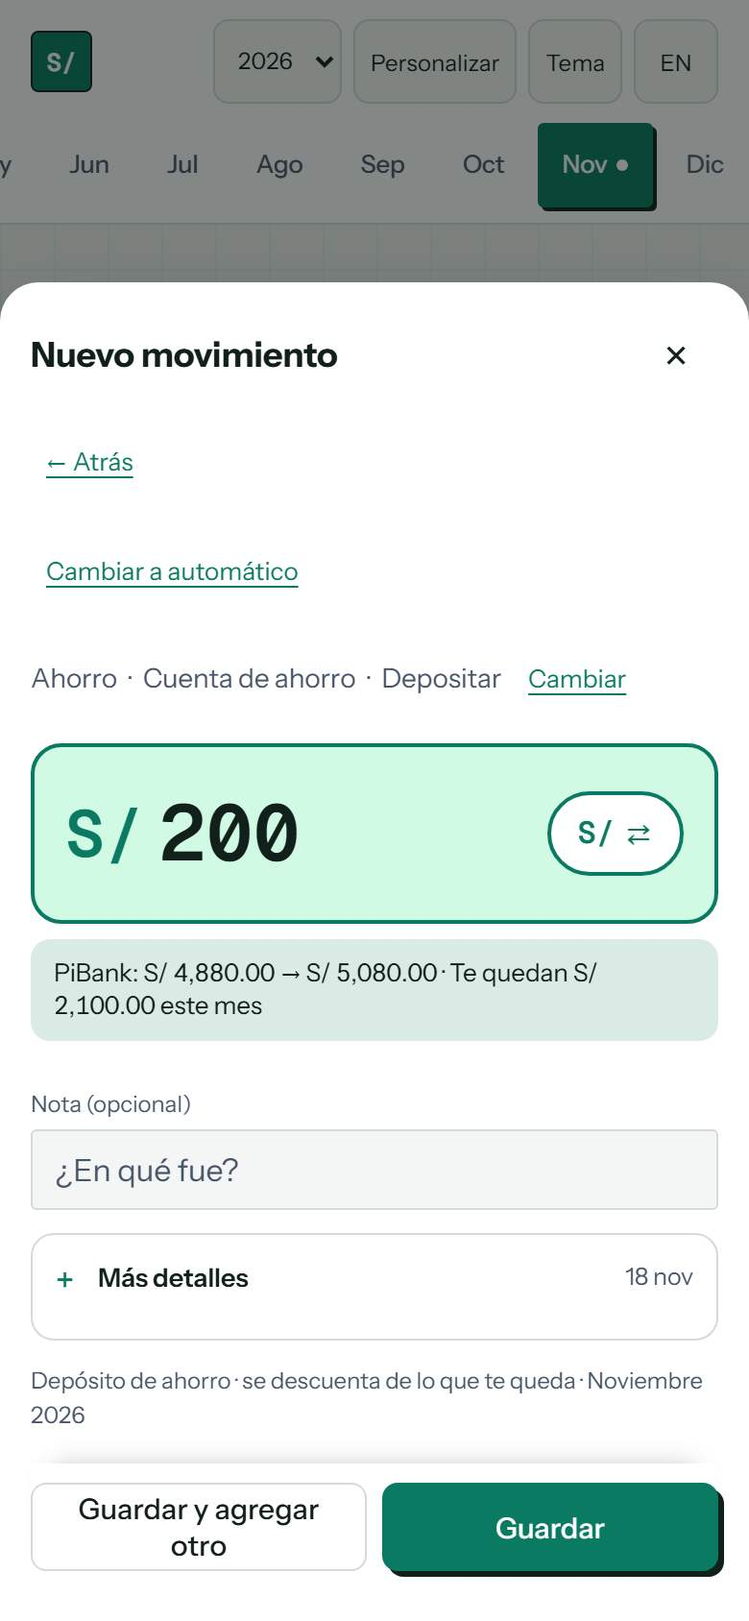
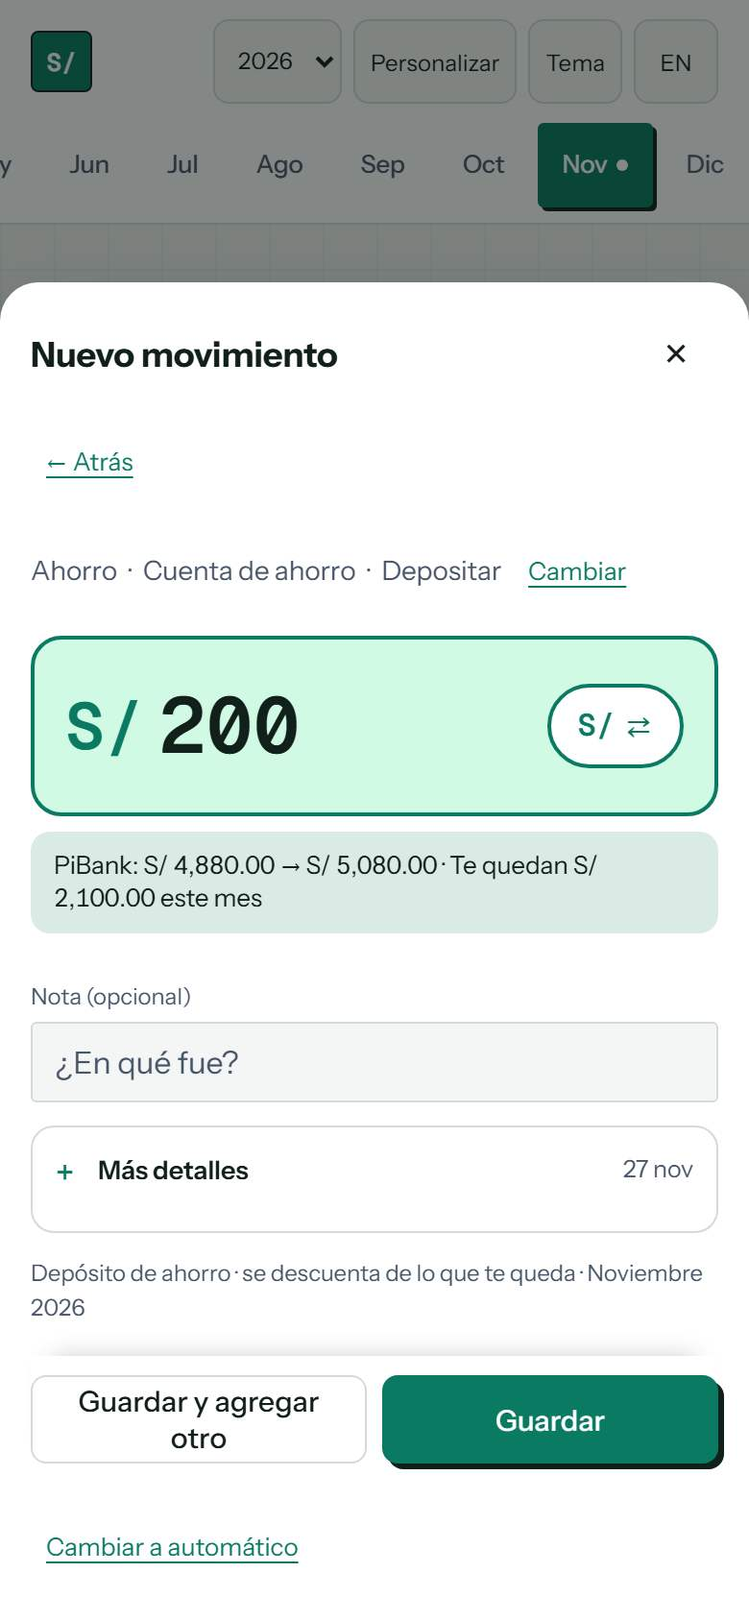
El asistente abre sin nada marcado y capturas nuevas en la landing

Changed region(s): [[0.0308, 0.3389, 0.9846, 0.9858], [0.0615, 0.9242, 0.4308, 0.9858], [0.8923, 0.2156, 0.9231, 0.2464]]

diff --git a/index.html b/index.html
@@ -2464,7 +2464,7 @@ function syncSheet(){
   g('sdest').classList.remove('err');pagoMas();
   {const sm=g('ssrcmsg');if(sm)sm.hidden=true;const su=g('smsum');if(su){const bits=[ent.day+' '+ABR[+ent.mo].toLowerCase()+(ent.yr!==year?' '+ent.yr:'')];if(gasto)bits.push(GLAB[grpSel()]);if(ent.g)bits.push('Meta: '+ent.g);su.textContent=bits.join(' · ');}}
   {const q=g('sqk'),qk=!!g('sheet').dataset.quick;if(q)q.innerHTML=qk?catAutoHtml():'';const st=g('stype');if(st)st.hidden=qk&&!!ent.lock;}
-  negWarn();rove(g('sheet'));updateAuto();
+  negWarn();rove(g('sheet'));updateAuto();wizLimpia();
 }
 /* Modo del formulario: ask = elegir, manual = formulario, auto = una frase con tarjeta de confirmación. */
 /* Registro en una pantalla: un gasto con monto y concepto. La cuenta, el tipo y la categoría se deducen, se ven y se pueden cambiar antes de guardar. */
@@ -2497,7 +2497,7 @@ function qkAFrase(){
 function setMode(m,wiz){
   const sh=document.getElementById('sheet');if(!sh)return;if(m==='auto'&&sh.dataset.quick)qkAFrase();delete sh.dataset.quick;sh.dataset.mode=m;if(m!=='auto')vozStop();
   if(m!=='ask')track('reg_modo',m==='auto'?'auto':(wiz?'manual_pasos':'manual_completo'));
-  if(!(m==='manual'&&wiz)){delete sh.dataset.wiz;delete sh.dataset.step;sh.querySelectorAll('.wzshow').forEach(e=>e.classList.remove('wzshow'));}
+  if(!(m==='manual'&&wiz)){const era=sh.dataset.wiz;delete sh.dataset.wiz;delete sh.dataset.step;sh.querySelectorAll('.wzshow').forEach(e=>e.classList.remove('wzshow'));if(era)syncSheet();}
   const w=document.getElementById('smodesw');if(w){w.dataset.mode=m==='auto'?'manual':'auto';w.textContent=m==='auto'?'Cambiar a manual':'Cambiar a automático';}
   if(m==='auto'){updateAuto();const i=document.getElementById('smsg');if(i)i.focus();}
   else if(m==='manual'){if(wiz)wizGo(wizFlow()[0]);else{const a=document.getElementById('sa');if(a)a.focus();}}
@@ -2536,10 +2536,18 @@ function wizGo(step){
   const Q={type:'¿Qué movimiento es?',sub:({gasto:'¿Qué tipo de gasto es?',ahorro:'¿Es ahorro o inversión?',tarjeta:'¿Es una compra o un pago?'})[gr[0]]||'',ax:'¿Qué haces con tu ahorro?',bank:'¿Con qué tarjeta?',grp:'¿En qué grupo cae este gasto?'};
   const q=document.getElementById('swq');if(q)q.textContent=Q[step]||'';
   if(step==='form'){wizSum();negWarn();}
+  wizLimpia();
   requestAnimationFrame(()=>{
     if(step==='form'){const a=document.getElementById('sa');if(a)a.focus();return;}
     const gid={type:'stype',sub:'ssub',ax:'sax',acct:'sfrom',bank:'sbank',src:'ssrc',grp:'sgrp'}[step],gx=gid&&document.getElementById(gid);
     const b=gx&&(gx.querySelector('[aria-checked="true"]')||gx.querySelector('button'));if(b)b.focus();});
+}
+/* En el asistente nada sale marcado hasta que lo tocas (se confundía con lo elegido); al volver atrás sí se ve tu elección. */
+const WZ_ELIGE={type:'#stype',sub:'#ssub',ax:'#sax',bank:'#sbank',src:'#ssrc',grp:'#sgrp'};
+function wizLimpia(){
+  const sh=document.getElementById('sheet');if(!sh||!ent||!sh.dataset.wiz)return;
+  const s=sh.dataset.step,sel=WZ_ELIGE[s];if(!sel||(ent.wzv||{})[s])return;
+  sh.querySelectorAll(sel+' [role=radio]').forEach((b,i)=>{b.setAttribute('aria-checked','false');b.tabIndex=i?-1:0;});
 }
 function wizAdvance(step){
   if(step==='acct'&&(!ent.from||(ent.ax==='mov'&&!ent.to)))return;
@@ -2782,7 +2790,7 @@ function openSheet(ask){
     <button type="button" class="modeb" data-mode="auto"><b>Automático</b><span>Escribes o dictas una frase y la app la llena</span></button></div>
   <button type="button" class="lnk" id="smodesw" data-mode="auto">Cambiar a automático</button>`;
   document.body.append(bg,sh);presetSrc();syncSheet();
-  bg.addEventListener('click',closeSheet);sh.addEventListener('click',e=>{const st=wizClickStep(e);sheetClick(e);if(st)wizAdvance(st);});sh.addEventListener('input',sheetInput);
+  bg.addEventListener('click',closeSheet);sh.addEventListener('click',e=>{const st=wizClickStep(e);if(st&&ent)(ent.wzv=ent.wzv||{})[st]=1;sheetClick(e);if(st&&ent){const f=wizFlow(),i=f.indexOf(st);Object.keys(ent.wzv).forEach(k=>{if(k!==st&&!(f.indexOf(k)>=0&&f.indexOf(k)<i))delete ent.wzv[k];});}if(st)wizAdvance(st);});sh.addEventListener('input',sheetInput);
   sh.addEventListener('keydown',e=>{if(e.key==='Enter'&&(e.ctrlKey||e.metaKey)){e.preventDefault();if(!e.repeat&&(!sh.dataset.wiz||sh.dataset.step==='form'))saveSheet(false);}else if(e.key==='Enter'&&e.target.tagName==='INPUT'){e.preventDefault();if(e.target.id==='scn'){const bt=sh.querySelector('[data-scatnew]');if(bt)bt.click();}else if(e.target.id==='sa'&&sh.dataset.quick&&!document.getElementById('sd').value.trim())document.getElementById('sd').focus();else saveSheet(false);}else if(e.key==='Escape')closeSheet();});
   track('reg_abrir',ask?'elegir':'directo');
   if(ask&&(cfg.modoReg==='auto'||cfg.modoReg==='manual')){const pf=cfg.modoReg;queueMicrotask(()=>{const s=document.getElementById('sheet');if(s!==sh||sh.dataset.mode!=='ask'||!ent)return;const md=(pf==='auto'&&!ent.lock)?'auto':'manual';setMode(md,md==='manual');});}
@@ -3164,7 +3172,7 @@ const SB_URL=ES_PROD?'https://lmjhlghwthydpeismulb.supabase.co':'https://qfnqqhw
    Cuentan qué pantallas se usan y dónde se traba la gente. NUNCA llevan montos, conceptos, cuentas ni correo:
    solo un id aleatorio del dispositivo (cuadra-sid), el nombre del evento, un dato corto (modo, paso, tipo) y la versión.
    Apagado hasta que exista la tabla (TRACK_DEFAULT); cada persona puede apagarlo en Ajustes (cuadra-stats = 0/1). */
-const TRACK_DEFAULT=true,APPV='2026.11.27.3';
+const TRACK_DEFAULT=true,APPV='2026.11.27.4';
 /* En tu computadora (localhost, file) no se mide por defecto: así las pruebas y el desarrollo no ensucian las métricas reales. */
 const trLocal=/^(localhost|127\.\d+\.\d+\.\d+|\[::1\]|)$/.test(location.hostname);
 const statsOn=()=>{let v=null;try{v=localStorage.getItem('cuadra-stats');}catch(e){}return v==='1'?true:v==='0'?false:(TRACK_DEFAULT&&!trLocal);};

diff --git a/src/360-formulario-registro.js b/src/360-formulario-registro.js
@@ -235,7 +235,7 @@ function syncSheet(){
   g('sdest').classList.remove('err');pagoMas();
   {const sm=g('ssrcmsg');if(sm)sm.hidden=true;const su=g('smsum');if(su){const bits=[ent.day+' '+ABR[+ent.mo].toLowerCase()+(ent.yr!==year?' '+ent.yr:'')];if(gasto)bits.push(GLAB[grpSel()]);if(ent.g)bits.push('Meta: '+ent.g);su.textContent=bits.join(' · ');}}
   {const q=g('sqk'),qk=!!g('sheet').dataset.quick;if(q)q.innerHTML=qk?catAutoHtml():'';const st=g('stype');if(st)st.hidden=qk&&!!ent.lock;}
-  negWarn();rove(g('sheet'));updateAuto();
+  negWarn();rove(g('sheet'));updateAuto();wizLimpia();
 }
 /* Modo del formulario: ask = elegir, manual = formulario, auto = una frase con tarjeta de confirmación. */
 /* Registro en una pantalla: un gasto con monto y concepto. La cuenta, el tipo y la categoría se deducen, se ven y se pueden cambiar antes de guardar. */
@@ -268,7 +268,7 @@ function qkAFrase(){
 function setMode(m,wiz){
   const sh=document.getElementById('sheet');if(!sh)return;if(m==='auto'&&sh.dataset.quick)qkAFrase();delete sh.dataset.quick;sh.dataset.mode=m;if(m!=='auto')vozStop();
   if(m!=='ask')track('reg_modo',m==='auto'?'auto':(wiz?'manual_pasos':'manual_completo'));
-  if(!(m==='manual'&&wiz)){delete sh.dataset.wiz;delete sh.dataset.step;sh.querySelectorAll('.wzshow').forEach(e=>e.classList.remove('wzshow'));}
+  if(!(m==='manual'&&wiz)){const era=sh.dataset.wiz;delete sh.dataset.wiz;delete sh.dataset.step;sh.querySelectorAll('.wzshow').forEach(e=>e.classList.remove('wzshow'));if(era)syncSheet();}
   const w=document.getElementById('smodesw');if(w){w.dataset.mode=m==='auto'?'manual':'auto';w.textContent=m==='auto'?'Cambiar a manual':'Cambiar a automático';}
   if(m==='auto'){updateAuto();const i=document.getElementById('smsg');if(i)i.focus();}
   else if(m==='manual'){if(wiz)wizGo(wizFlow()[0]);else{const a=document.getElementById('sa');if(a)a.focus();}}
@@ -307,10 +307,18 @@ function wizGo(step){
   const Q={type:'¿Qué movimiento es?',sub:({gasto:'¿Qué tipo de gasto es?',ahorro:'¿Es ahorro o inversión?',tarjeta:'¿Es una compra o un pago?'})[gr[0]]||'',ax:'¿Qué haces con tu ahorro?',bank:'¿Con qué tarjeta?',grp:'¿En qué grupo cae este gasto?'};
   const q=document.getElementById('swq');if(q)q.textContent=Q[step]||'';
   if(step==='form'){wizSum();negWarn();}
+  wizLimpia();
   requestAnimationFrame(()=>{
     if(step==='form'){const a=document.getElementById('sa');if(a)a.focus();return;}
     const gid={type:'stype',sub:'ssub',ax:'sax',acct:'sfrom',bank:'sbank',src:'ssrc',grp:'sgrp'}[step],gx=gid&&document.getElementById(gid);
     const b=gx&&(gx.querySelector('[aria-checked="true"]')||gx.querySelector('button'));if(b)b.focus();});
+}
+/* En el asistente nada sale marcado hasta que lo tocas (se confundía con lo elegido); al volver atrás sí se ve tu elección. */
+const WZ_ELIGE={type:'#stype',sub:'#ssub',ax:'#sax',bank:'#sbank',src:'#ssrc',grp:'#sgrp'};
+function wizLimpia(){
+  const sh=document.getElementById('sheet');if(!sh||!ent||!sh.dataset.wiz)return;
+  const s=sh.dataset.step,sel=WZ_ELIGE[s];if(!sel||(ent.wzv||{})[s])return;
+  sh.querySelectorAll(sel+' [role=radio]').forEach((b,i)=>{b.setAttribute('aria-checked','false');b.tabIndex=i?-1:0;});
 }
 function wizAdvance(step){
   if(step==='acct'&&(!ent.from||(ent.ax==='mov'&&!ent.to)))return;
@@ -553,7 +561,7 @@ function openSheet(ask){
     <button type="button" class="modeb" data-mode="auto"><b>Automático</b><span>Escribes o dictas una frase y la app la llena</span></button></div>
   <button type="button" class="lnk" id="smodesw" data-mode="auto">Cambiar a automático</button>`;
   document.body.append(bg,sh);presetSrc();syncSheet();
-  bg.addEventListener('click',closeSheet);sh.addEventListener('click',e=>{const st=wizClickStep(e);sheetClick(e);if(st)wizAdvance(st);});sh.addEventListener('input',sheetInput);
+  bg.addEventListener('click',closeSheet);sh.addEventListener('click',e=>{const st=wizClickStep(e);if(st&&ent)(ent.wzv=ent.wzv||{})[st]=1;sheetClick(e);if(st&&ent){const f=wizFlow(),i=f.indexOf(st);Object.keys(ent.wzv).forEach(k=>{if(k!==st&&!(f.indexOf(k)>=0&&f.indexOf(k)<i))delete ent.wzv[k];});}if(st)wizAdvance(st);});sh.addEventListener('input',sheetInput);
   sh.addEventListener('keydown',e=>{if(e.key==='Enter'&&(e.ctrlKey||e.metaKey)){e.preventDefault();if(!e.repeat&&(!sh.dataset.wiz||sh.dataset.step==='form'))saveSheet(false);}else if(e.key==='Enter'&&e.target.tagName==='INPUT'){e.preventDefault();if(e.target.id==='scn'){const bt=sh.querySelector('[data-scatnew]');if(bt)bt.click();}else if(e.target.id==='sa'&&sh.dataset.quick&&!document.getElementById('sd').value.trim())document.getElementById('sd').focus();else saveSheet(false);}else if(e.key==='Escape')closeSheet();});
   track('reg_abrir',ask?'elegir':'directo');
   if(ask&&(cfg.modoReg==='auto'||cfg.modoReg==='manual')){const pf=cfg.modoReg;queueMicrotask(()=>{const s=document.getElementById('sheet');if(s!==sh||sh.dataset.mode!=='ask'||!ent)return;const md=(pf==='auto'&&!ent.lock)?'auto':'manual';setMode(md,md==='manual');});}

diff --git a/dev/t90.js b/dev/t90.js
@@ -153,5 +153,22 @@ const cerrar=async p=>{await p.keyboard.press('Escape');await p.waitForTimeout(2
   {const tx=await p.innerText('#sheet');T('en inglés la tarjeta está traducida',/It will be saved like this/.test(tx)&&/Paid from/.test(tx)&&!/Se guardará|Sale de/.test(tx));}
   await p.context().close();
 
+  {const p=await (await b.newContext({viewport:{width:1366,height:800}})).newPage();await p.route('**/*',r=>r.request().url().startsWith('http://127.0.0.1:8765')?r.continue():r.abort());
+   await p.goto('http://127.0.0.1:8765/wrap-repo.html#noviembre');await p.waitForSelector('#app');await p.waitForTimeout(500);
+   const W=()=>p.waitForTimeout(260),marcadas=s=>p.locator(s+' [aria-checked="true"]').count();
+   await p.click('.caplink');await p.waitForSelector('#sheet');await W();await p.click('[data-mode="manual"]');await W();
+   T('asistente: «¿Qué movimiento es?» no sale con nada marcado',await marcadas('#stype')===0&&await p.locator('#stype [role=radio][tabindex="0"]').count()===1);
+   await p.click('#stype [data-g="gasto"]');await W();T('asistente: el tipo de gasto tampoco',await marcadas('#ssub')===0);
+   await p.click('#ssub [data-t="hor"]');await W();T('asistente: ni el grupo',await marcadas('#sgrp')===0);
+   await p.click('#sgrp [data-sgrp="want"]');await W();T('asistente: ni la cuenta',await marcadas('#ssrc')===0);
+   await p.click('[data-wz="back"]');await W();T('asistente: al volver atrás se ve lo que elegiste',await p.getAttribute('#sgrp [data-sgrp="want"]','aria-checked')==='true');
+   await p.click('[data-wz="back"]');await W();await p.click('[data-wz="back"]');await W();await p.click('#stype [data-g="tarjeta"]');await W();
+   T('asistente: si cambias una respuesta, los pasos siguientes no arrastran marcas',await marcadas('#ssub')===0);
+   await p.click('#ssub [data-t="compra"]');await W();T('asistente: tampoco la tarjeta',await marcadas('#sbank')===0);
+   await p.click('#sbank [data-b="bcp"]');await W();await p.click('[data-smode="auto"], #smodesw');await W();await p.click('#smodesw');await W();
+   T('en el formulario completo (fuera del asistente) lo elegido sí se ve',await p.getAttribute('#sheet','data-wiz')===null&&await marcadas('#stype')===1&&await marcadas('#ssub')===1);
+   await p.keyboard.press('Escape');await W();await p.click('.caplink');await p.waitForSelector('#sheet');await W();await p.click('[data-mode="manual"]');await W();await p.click('[data-wz="back"]');await W();
+   T('al volver a la pantalla rápida, el tipo está marcado',await marcadas('#stype')===1);
+   await p.context().close();}
   console.log('Total '+(ok+bad)+' ok '+ok+' fallas '+bad);await b.close();process.exit(bad?1:0);
 })().catch(e=>{console.log('ERR',e);process.exit(1);});

diff --git a/src/390-metricas-y-nube.js b/src/390-metricas-y-nube.js
@@ -2,7 +2,7 @@
    Cuentan qué pantallas se usan y dónde se traba la gente. NUNCA llevan montos, conceptos, cuentas ni correo:
    solo un id aleatorio del dispositivo (cuadra-sid), el nombre del evento, un dato corto (modo, paso, tipo) y la versión.
    Apagado hasta que exista la tabla (TRACK_DEFAULT); cada persona puede apagarlo en Ajustes (cuadra-stats = 0/1). */
-const TRACK_DEFAULT=true,APPV='2026.11.27.3';
+const TRACK_DEFAULT=true,APPV='2026.11.27.4';
 /* En tu computadora (localhost, file) no se mide por defecto: así las pruebas y el desarrollo no ensucian las métricas reales. */
 const trLocal=/^(localhost|127\.\d+\.\d+\.\d+|\[::1\]|)$/.test(location.hostname);
 const statsOn=()=>{let v=null;try{v=localStorage.getItem('cuadra-stats');}catch(e){}return v==='1'?true:v==='0'?false:(TRACK_DEFAULT&&!trLocal);};

diff --git a/sw.js b/sw.js
@@ -1,6 +1,6 @@
 /* Service worker: la app siempre trae lo último de la red; el caché es solo para
    abrir sin conexión (muestra tus últimos datos locales). */
-const CACHE = 'mis-finanzas-v15';
+const CACHE = 'mis-finanzas-v16';
 const PREF = 'misoles-pref';
 const SHARE = 'misoles-share';
 /* Librerías pesadas de reportes: no se precargan; se guardan la primera vez que se usan. */

diff --git a/CLAUDE.md b/CLAUDE.md
@@ -35,7 +35,7 @@ Nunca subas movimientos, saldos, correos, claves secretas ni el ID de su hoja de
 - `sw.js`: service worker «red primero» para las páginas.
 - **Gráficos perezosos**: `mkChart` crea cada gráfico recién cuando está a <300 px de la pantalla (IntersectionObserver). Para capturas de página completa (p. ej. `inicio/img/*.jpg`), baja con scroll antes de capturar o los gráficos de abajo saldrán vacíos.
 - **Rutas extra**: `#ajustes` es pantalla propia (antes vivía al fondo del Resumen). En celular (<900 px) hay barra inferior `#bnav` y atajos «Ir a…» (`data-jump`).
-- **Registro («+»)**: `openSheet(true)` abre primero la ventana «¿Cómo quieres registrar?» (`data-mode=ask`): **Manual** (asistente por pasos: una ventana por decisión — movimiento → tipo → tarjeta/cuenta de ahorro → de dónde sale → monto y concepto; los pasos los calcula `wizFlow()` y se muestran con `wizGo()`; los botones `+ Agregar…` saltan los pasos de tipo con `ent.lock`; «Cambiar a manual» desde Automático, editar y el resto de flujos usan el formulario completo sin pasos) o **Automático** (una frase en `#smsg` con tarjeta de confirmación `#sapv`; si falta la cuenta, la tarjeta la pide con fichas y no guarda a ciegas). También la piden todos los botones `+ Agregar…` (el tipo queda fijo con `ent.lock`); editar, pagar tarjeta y las acciones de ahorro llaman a `openSheet()` sin ventana. Los atajos (`#ssug`, solo en Manual) salen **únicamente** de los gastos recurrentes (`cfg.rec`) que la persona configuró en Ajustes o creó marcando «Repetir cada mes» en «Más detalles»; nunca se inventan desde el historial. Un toque los registra. Un **ingreso** también pregunta «¿En qué cuenta se deposita?» (opcional: «No sumar a ninguna cuenta») y la suma al saldo: `applyDed` guarda en `_d` el monto con signo negativo para `ing`, así `revDed` lo revierte igual al editar, borrar o deshacer. Prueba: `dev/t91.js`. **Moneda**: el botón `#scur` (una píldora dentro del recuadro del monto, a la derecha y centrada en vertical; solo se ve cuando hay monto; el monto lleva el símbolo grande `#samtcur` a su izquierda) **rota** entre S/ y las monedas que la persona dejó activas en `cfg.monedas` (lista con `$` y/o `€`, por defecto las dos: S/ → $ → € → S/; se marcan en Ajustes → «Monedas al registrar», `saneCfg` filtra lo inválido y borra el antiguo `monedaAlt`). Con la lista vacía el botón se oculta; si se edita un movimiento en una moneda desactivada, el botón la muestra y el siguiente toque pasa a soles. Pone `ent.cur`; el resto (fila con `cur`, conversión con el tipo de cambio) es la lógica de siempre. El primer paso del asistente NO pregunta la moneda (se probó y se descartó: la opción de siempre junto al monto se mantiene). Prueba: `dev/t93.js`. **Saldo insuficiente** (`shortInfo()`, `shortHtml()`, `negWarn()`; caja `#sshort` bajo el monto, visible en Manual por pasos, formulario completo y Automático): cubre gastos, pago de tarjeta, depósitos y movimientos desde liquidez, y retiros o movimientos desde una cuenta de ahorro. Si no alcanza, muestra el saldo, lo que falta y otras cuentas de liquidez a las que sí les alcanza (un toque las usa: `data-sfix`), el botón pasa a «Guardar igual» y se oculta «Guardar y agregar otro»; un atajo de un toque no se guarda, abre el monto con el aviso. Con `cfg.bloquearNeg` (Ajustes, apagado por defecto; `saneCfg` lo fuerza a booleano) el botón se bloquea y `saveSheet` también lo rechaza (Enter). Ojo: `negWarn` usa `classList` (no `className`) porque `wizGo` marca los elementos visibles con `wzshow`. **Pago dividido** (`splitOk()`, `splitHtml()`, `ent.split`, botones `data-ssplit`): en gastos y pago de tarjeta, si la cuenta tiene algo de saldo pero no alcanza, se ofrece «O completa el resto con:» otra cuenta a la que sí le alcance el resto; al elegirla, el botón pasa a «Guardar dividido» y se guardan **dos filas normales** (mismo concepto, una por cuenta, sin campo nuevo en los datos); Deshacer revierte las dos; con `bloquearNeg` dividir sí deja guardar; no se ofrece al editar. «Cargar recurrentes» avisa si deja una cuenta en negativo y, con `bloquearNeg`, no carga el que no alcanza. Editar un movimiento siempre pasa por el registro. Pruebas: `dev/t94.js`, `dev/t119.js`. La clase se elige sola por el historial del concepto (`autoCls`). Pruebas: `dev/t89.js` (atajos) y `dev/t90.js` (ventana y nombre). El nombre visible de la sección `hor` es **«Cotidiano»** (nov. 2026); el código sigue llamándola `hor`.
+- **Registro («+»)**: `openSheet(true)` abre primero la ventana «¿Cómo quieres registrar?» (`data-mode=ask`): **Manual** (asistente por pasos: una ventana por decisión — movimiento → tipo → tarjeta/cuenta de ahorro → de dónde sale → monto y concepto; los pasos los calcula `wizFlow()` y se muestran con `wizGo()`; los botones `+ Agregar…` saltan los pasos de tipo con `ent.lock`; «Cambiar a manual» desde Automático, editar y el resto de flujos usan el formulario completo sin pasos) o **Automático** (una frase en `#smsg` con tarjeta de confirmación `#sapv`; si falta la cuenta, la tarjeta la pide con fichas y no guarda a ciegas). También la piden todos los botones `+ Agregar…` (el tipo queda fijo con `ent.lock`); editar, pagar tarjeta y las acciones de ahorro llaman a `openSheet()` sin ventana. Los atajos (`#ssug`, solo en Manual) salen **únicamente** de los gastos recurrentes (`cfg.rec`) que la persona configuró en Ajustes o creó marcando «Repetir cada mes» en «Más detalles»; nunca se inventan desde el historial. Un toque los registra. Un **ingreso** también pregunta «¿En qué cuenta se deposita?» (opcional: «No sumar a ninguna cuenta») y la suma al saldo: `applyDed` guarda en `_d` el monto con signo negativo para `ing`, así `revDed` lo revierte igual al editar, borrar o deshacer. Prueba: `dev/t91.js`. **Moneda**: el botón `#scur` (una píldora dentro del recuadro del monto, a la derecha y centrada en vertical; solo se ve cuando hay monto; el monto lleva el símbolo grande `#samtcur` a su izquierda) **rota** entre S/ y las monedas que la persona dejó activas en `cfg.monedas` (lista con `$` y/o `€`, por defecto las dos: S/ → $ → € → S/; se marcan en Ajustes → «Monedas al registrar», `saneCfg` filtra lo inválido y borra el antiguo `monedaAlt`). Con la lista vacía el botón se oculta; si se edita un movimiento en una moneda desactivada, el botón la muestra y el siguiente toque pasa a soles. Pone `ent.cur`; el resto (fila con `cur`, conversión con el tipo de cambio) es la lógica de siempre. El primer paso del asistente NO pregunta la moneda (se probó y se descartó: la opción de siempre junto al monto se mantiene). Prueba: `dev/t93.js`. **Saldo insuficiente** (`shortInfo()`, `shortHtml()`, `negWarn()`; caja `#sshort` bajo el monto, visible en Manual por pasos, formulario completo y Automático): cubre gastos, pago de tarjeta, depósitos y movimientos desde liquidez, y retiros o movimientos desde una cuenta de ahorro. Si no alcanza, muestra el saldo, lo que falta y otras cuentas de liquidez a las que sí les alcanza (un toque las usa: `data-sfix`), el botón pasa a «Guardar igual» y se oculta «Guardar y agregar otro»; un atajo de un toque no se guarda, abre el monto con el aviso. Con `cfg.bloquearNeg` (Ajustes, apagado por defecto; `saneCfg` lo fuerza a booleano) el botón se bloquea y `saveSheet` también lo rechaza (Enter). Ojo: `negWarn` usa `classList` (no `className`) porque `wizGo` marca los elementos visibles con `wzshow`. **Pago dividido** (`splitOk()`, `splitHtml()`, `ent.split`, botones `data-ssplit`): en gastos y pago de tarjeta, si la cuenta tiene algo de saldo pero no alcanza, se ofrece «O completa el resto con:» otra cuenta a la que sí le alcance el resto; al elegirla, el botón pasa a «Guardar dividido» y se guardan **dos filas normales** (mismo concepto, una por cuenta, sin campo nuevo en los datos); Deshacer revierte las dos; con `bloquearNeg` dividir sí deja guardar; no se ofrece al editar. «Cargar recurrentes» avisa si deja una cuenta en negativo y, con `bloquearNeg`, no carga el que no alcanza. Editar un movimiento siempre pasa por el registro. Pruebas: `dev/t94.js`, `dev/t119.js`. La clase se elige sola por el historial del concepto (`autoCls`). Pruebas: `dev/t89.js` (atajos) y `dev/t90.js` (ventana y nombre). **En el asistente nada sale marcado de entrada** (27 nov. 2026, pedido del dueño: se confundía con lo elegido): `wizLimpia()` desmarca el paso que aún no se respondió (`ent.wzv`); al volver atrás sí se ve la elección y cambiar una respuesta olvida las siguientes. La pantalla rápida y el formulario completo siguen marcando lo que se guardará. No lo «restaures». El nombre visible de la sección `hor` es **«Cotidiano»** (nov. 2026); el código sigue llamándola `hor`.
 - **Registro en una pantalla** (22 nov. 2026): el «+» con `cfg.modoReg=ask` abre `data-mode=ask` + `data-quick` (`qkEntra`): monto y concepto primero; `qkDeduce` propone tipo, categoría y cuenta por el historial, sin pisar lo que la persona cambió (`srcTocada`, `catTocada`, `clsManual`). Nada se guarda sin una cuenta visible. **Sirve para todos los movimientos** (23 nov. 2026): el selector `#stype` (Gasto · Ingreso · Ahorro · Tarjeta) está en la misma pantalla y cada tipo muestra solo lo suyo (ingreso: cuenta donde se deposita; tarjeta: compra/pago, tarjeta y cuenta; ahorro: acción y cuenta de ahorro, inversión sin cuenta). Los botones `+ Agregar…` (`ent.lock`) abren la misma pantalla con el tipo fijo (sin selector). Ingreso y depósito/retiro de ahorro exigen elegir cuenta (o la opción de no mover dinero) antes de guardar. `qkRecuerda` recuerda la cuenta del último ingreso (`KEY+'-srcing'`) y la última tarjeta (`KEY+'-card'`); Manual y Automático siguen abajo. Prueba: `dev/t129.js`. Al pasar a Automático, `qkAFrase` convierte lo escrito en frase. Métricas: `reg_modo=rapido`, `reg_guardar=rapido:*`, `reg_abandono=rapido:monto|vacio`. Prueba: `dev/t128.js` (gasto) y `dev/t129.js` (resto).
 - **Movimientos con id** (25 nov. 2026, fase 1; sin cambios en la base): cada fila de movimiento (`ID_SECS`: liq, ing, fij, hor, tarjetas, aho, inv; no `eur`) lleva `r.id` estable. `idsAsegura()` corre en `localSave` y al armar filas para la nube: las filas que ya existían reciben un id calculado de su contenido (`l…`, igual en todos los dispositivos, con contador para filas idénticas) la primera vez (`cfg.idV`) y las nuevas uno al azar (`m…`); si hay ids repetidos, se regeneran. **Sin constantes de más abajo: corre al arrancar.** En la nube (`estado.registro`, formato tabular de siempre) cada movimiento lleva una **columna 16** con un JSON de lo que no tiene columna propia (`xJson`/`XSKIP`: id, `t` de antojo, `v` de «¿valió la pena?», `imp`…): antes esos campos **se perdían al bajar de la nube** en otro dispositivo. Las versiones anteriores ignoran esa columna y, si guardan, la pierden (los ids vuelven a asignarse). El CSV de respaldo no la incluye. Prueba: `dev/t130.js`. **Fase 2 (pendiente, necesita aprobación y SQL):** tabla propia de movimientos con unión por id en conflictos; ojo con los saldos de cuentas (`liq` se modifica con `applyDed`): unir filas obliga a recalcular saldos.
 - **Solo tres grupos de gasto, sin categorías** (27 nov. 2026, pedido del dueño; reemplaza ADR-014): Necesidades, Deseos y Ahorro e inversión. El antojo es una marca de un deseo. La persona escribe **conceptos** y cada gasto lleva su grupo en `r.k` (`GNOM`: «Necesidad», «Deseo», «Ahorro e inversión»; se muestra con `GLAB`. Una pestaña sin actualizar entiende las dos primeras, pero cuenta «Ahorro e inversión» según la sección). Si alguien había movido las categorías «Necesidad» o «Deseo» a otro grupo, ahora vuelven a su nombre. **Los movimientos antiguos no se reescriben**: conservan su palabra («Menú»…) y `catG` la traduce con `cfg.catGrupo`, que ya no se escribe; `cfg.cats` quedó sin uso (se conserva por las versiones anteriores). Todo cálculo usa `grupoDe(sec,r)` y toda pantalla o reporte `kNom(sec,r)`: **nunca muestres `r.k` de un gasto**. Al editar sin cambiar de grupo se conserva la palabra (`ent.k0`). «¿Dónde gastas más?», «Tu semana», el cierre y los gráficos agrupan por concepto (`concNom`; 3 por grupo y «Otros»). El 50/30/20 usa lo mismo. Registro: fichas `data-sgrp` en la pantalla rápida (`#sqk`), Automático (`#sapv`), formulario (`#scat`) y paso `grp` del asistente (ya no hay paso de categoría); `catSugiere` propone el grupo por tu historial y las pistas y `grpSel()` siempre deja uno marcado. Reportes: «Gastos por concepto» y columna «Grupo». En `r.k` de `aho` sigue la meta. Pruebas: `dev/t127.js`, `dev/t96.js`, `dev/t98.js`.
